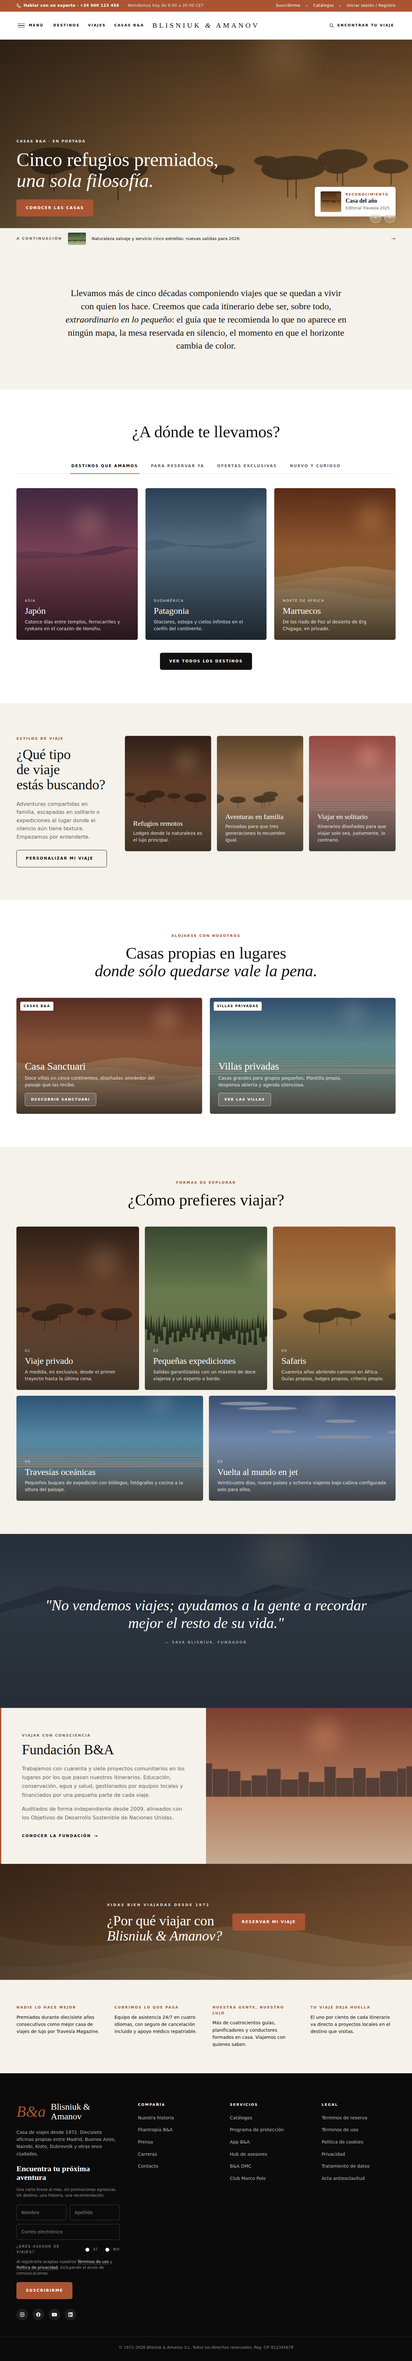
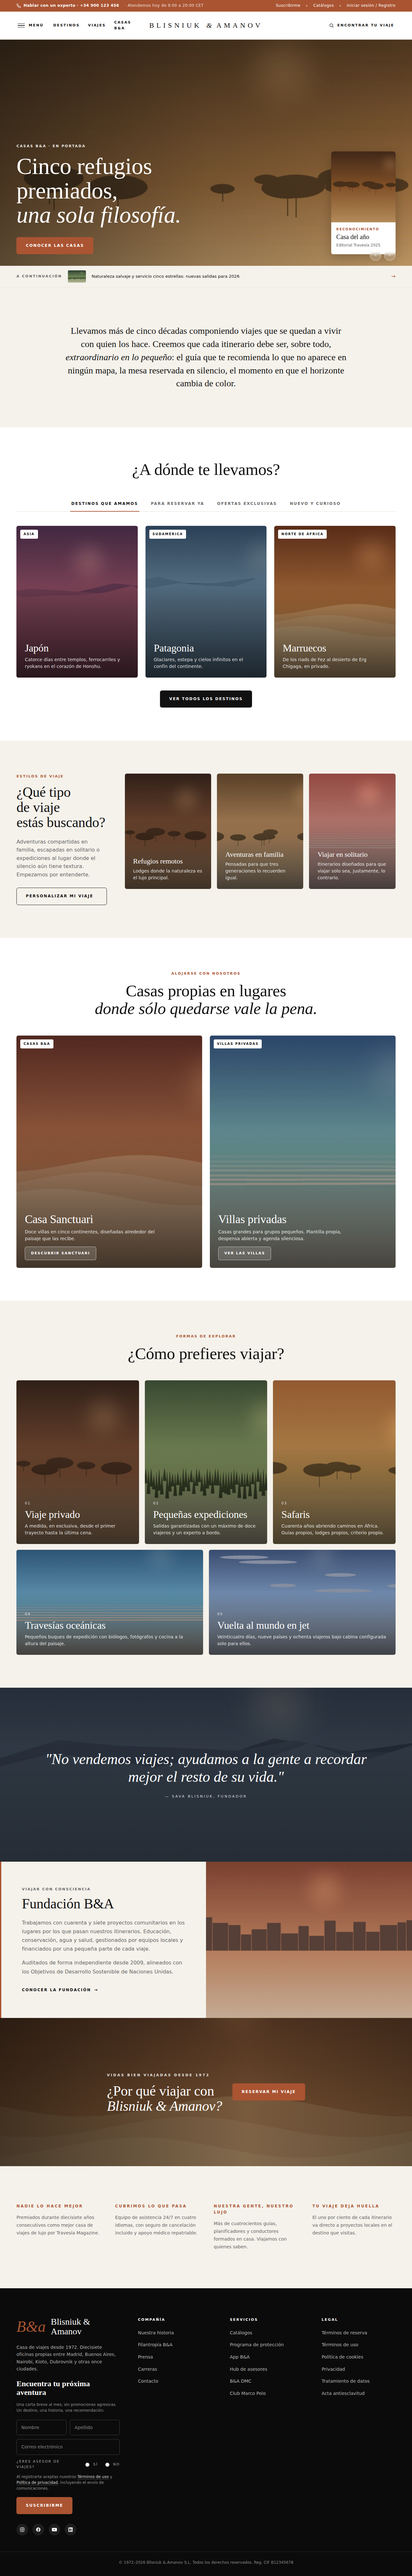
Tighten layout to match reference (8 fixes)
1. Spotlight hero: taller (560–720px) with bigger headline and more padding
2. Award card: vertical "polaroid" with image on top, text below — was horizontal thumb+text
3. Destination tabs: add label-pill at top-left of each card
4. Stay-with cards: 4/5 portrait aspect (was 16/10 landscape) and bigger title
5. Why-banner: stronger gradient overlay and min-height 460px so image breathes
6. Stats strip: padding 70–130px (was 50–80px), larger eyebrow, mute body
7. Wordmark: weight 300, letter-spacing 0.34em, italic & with breathing space
8. Recommended cards in journeys hero: 280px wide (was 220px)

Plus: section heading h3 inside img-card is now 32px / weight 400 for stronger hierarchy.

diff --git a/styles.css b/styles.css
@@ -246,16 +246,18 @@ p  { margin: 0 0 1em; }
 }
 .brand-wordmark {
   font-family: var(--serif);
-  font-weight: 500;
+  font-weight: 300;
   font-size: 22px;
-  letter-spacing: 0.28em;
+  letter-spacing: 0.34em;
   color: var(--ink);
   white-space: nowrap;
 }
 .brand-amp {
   font-family: var(--serif);
   font-style: italic;
-  font-weight: 400;
+  font-weight: 300;
+  letter-spacing: 0;
+  margin: 0 2px;
 }
 
 .search-trigger {
@@ -312,7 +314,7 @@ p  { margin: 0 0 1em; }
 }
 .spotlight-frame {
   position: relative;
-  height: clamp(420px, 65vh, 620px);
+  height: clamp(560px, 78vh, 720px);
   overflow: hidden;
 }
 .spotlight-frame .slide {
@@ -350,12 +352,13 @@ p  { margin: 0 0 1em; }
   padding-top: 36px;
   color: var(--white);
 }
-.spotlight-text { max-width: 640px; align-self: end; }
+.spotlight-text { max-width: 700px; align-self: end; }
 .spotlight-text .eyebrow { color: rgba(255,255,255,0.92); }
 .spotlight-text h1 {
   color: var(--white);
-  font-size: clamp(36px, 5vw, 60px);
-  margin-bottom: 26px;
+  font-size: clamp(42px, 6vw, 72px);
+  line-height: 1.05;
+  margin-bottom: 30px;
 }
 .spotlight-text h1 em { font-style: italic; color: var(--white); }
 
@@ -370,15 +373,24 @@ p  { margin: 0 0 1em; }
   background: var(--white);
   color: var(--ink);
   border-radius: var(--r);
-  padding: 14px 18px;
+  padding: 0;
   display: flex;
-  align-items: center;
-  gap: 14px;
-  min-width: 220px;
-  box-shadow: 0 10px 30px rgba(0,0,0,0.18);
+  flex-direction: column;
+  width: 200px;
+  box-shadow: 0 12px 36px rgba(0,0,0,0.22);
+  overflow: hidden;
 }
-.award-card img { width: 64px; height: 64px; object-fit: cover; border-radius: 4px; }
-.award-card-text { display: flex; flex-direction: column; }
+.award-card img {
+  width: 100%;
+  height: 220px;
+  object-fit: cover;
+  display: block;
+}
+.award-card-text {
+  display: flex;
+  flex-direction: column;
+  padding: 14px 16px 18px;
+}
 .award-card-text small {
   font-size: 10px;
   letter-spacing: 0.22em;
@@ -386,8 +398,14 @@ p  { margin: 0 0 1em; }
   color: var(--copper);
   font-weight: 700;
 }
-.award-card-text strong { font-family: var(--serif); font-size: 18px; line-height: 1.1; margin-top: 2px; }
-.award-card-text span { font-size: 12px; color: var(--ink-mute); margin-top: 4px; }
+.award-card-text strong {
+  font-family: var(--serif);
+  font-size: 20px;
+  line-height: 1.1;
+  margin-top: 4px;
+  font-weight: 500;
+}
+.award-card-text span { font-size: 12px; color: var(--ink-mute); margin-top: 6px; }
 
 .spotlight-controls {
   position: absolute;
@@ -581,8 +599,9 @@ p  { margin: 0 0 1em; }
 .img-card .img-card-body h3 {
   color: var(--white);
   margin: 6px 0 8px;
-  font-size: 28px;
+  font-size: 32px;
   line-height: 1.1;
+  font-weight: 400;
 }
 .img-card .img-card-body p {
   color: rgba(255,255,255,0.86);
@@ -614,8 +633,8 @@ p  { margin: 0 0 1em; }
 
 /* Stay-with: 2 cards big */
 .stay-with { background: var(--white); }
-.stay-with .img-card { aspect-ratio: 16/10; }
-.stay-with .img-card-body h3 { font-size: 32px; }
+.stay-with .img-card { aspect-ratio: 4/5; }
+.stay-with .img-card-body h3 { font-size: 36px; }
 .stay-with .img-card-body p { max-width: 420px; }
 .stay-with .img-card-body .btn {
   margin-top: 14px;
@@ -742,9 +761,10 @@ p  { margin: 0 0 1em; }
 .why-banner::after {
   content: "";
   position: absolute; inset: 0;
-  background: linear-gradient(90deg, rgba(0,0,0,0.55) 0%, rgba(0,0,0,0.25) 100%);
+  background: linear-gradient(90deg, rgba(0,0,0,0.62) 0%, rgba(0,0,0,0.30) 60%, rgba(0,0,0,0.45) 100%);
   z-index: 1;
 }
+.why-banner { min-height: 460px; padding: 100px 0; }
 .why-banner .container {
   position: relative;
   z-index: 2;
@@ -775,28 +795,28 @@ p  { margin: 0 0 1em; }
    ========================= */
 .stats-strip {
   background: var(--paper);
-  padding: clamp(50px, 6vw, 80px) 0;
+  padding: clamp(70px, 9vw, 130px) 0;
   border-bottom: 1px solid var(--line-soft);
 }
 .stats-grid {
   display: grid;
   grid-template-columns: repeat(4, 1fr);
-  gap: 40px;
+  gap: 48px;
 }
 .stat h5 {
   font-family: var(--sans);
-  font-size: 11px;
-  letter-spacing: 0.22em;
+  font-size: 12px;
+  letter-spacing: 0.24em;
   text-transform: uppercase;
   font-weight: 700;
   color: var(--copper);
-  margin: 0 0 10px;
+  margin: 0 0 14px;
 }
 .stat p {
   font-family: var(--sans);
   font-size: 14px;
-  color: var(--ink);
-  line-height: 1.6;
+  color: var(--ink-mute);
+  line-height: 1.7;
   margin: 0;
 }
 
@@ -1081,7 +1101,7 @@ p  { margin: 0 0 1em; }
 .recommended-track::-webkit-scrollbar { display: none; }
 .recommended-track { scrollbar-width: none; }
 .rec-card {
-  flex: 0 0 220px;
+  flex: 0 0 280px;
   scroll-snap-align: start;
   background: var(--paper);
   border-radius: var(--r);

diff --git a/index.html b/index.html
@@ -142,24 +142,24 @@
       <div class="cards-3 tab-panel" data-panel="loved">
         <a href="#" class="img-card">
           <img src="assets/img/dest-japan.jpg" alt="Templos en Japón" />
+          <span class="label-pill">Asia</span>
           <div class="img-card-body">
-            <small>Asia</small>
             <h3>Japón</h3>
             <p>Catorce días entre templos, ferrocarriles y ryokans en el corazón de Honshu.</p>
           </div>
         </a>
         <a href="#" class="img-card">
           <img src="assets/img/dest-patagonia.jpg" alt="Patagonia" />
+          <span class="label-pill">Sudamérica</span>
           <div class="img-card-body">
-            <small>Sudamérica</small>
             <h3>Patagonia</h3>
             <p>Glaciares, estepa y cielos infinitos en el confín del continente.</p>
           </div>
         </a>
         <a href="#" class="img-card">
           <img src="assets/img/dest-morocco.jpg" alt="Marruecos" />
+          <span class="label-pill">Norte de África</span>
           <div class="img-card-body">
-            <small>Norte de África</small>
             <h3>Marruecos</h3>
             <p>De los riads de Fez al desierto de Erg Chigaga, en privado.</p>
           </div>
